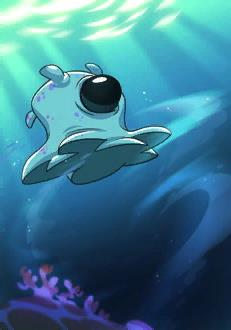
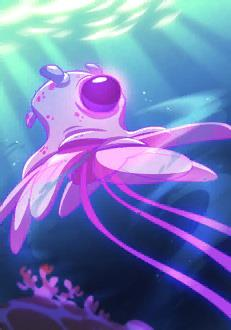
- Fixed Adorabubble art - Fixed default BGEs

diff --git a/scripts/simulator_base.js b/scripts/simulator_base.js
@@ -23,10 +23,11 @@ var SIMULATOR = {};
             doEarlyActivationSkills(card);
             activation_skills(card);
         } else {
-            // Activate trap battlegrounds
+            // Activate trap/onPlay battlegrounds
             for (var i = 0; i < battlegrounds.onCardPlayed.length; i++) {
                 var battleground = battlegrounds.onCardPlayed[i];
                 if (battleground.enemy_only && p != 'cpu') continue;
+                if (battleground.self_only && p != 'player') continue;
                 battleground.owner = p;
                 var o = (p === 'player' ? 'cpu' : 'player');
                 battleground.onCardPlayed(card, deck[p].deck, deck[o].deck);
@@ -126,7 +127,7 @@ var SIMULATOR = {};
         for (var unit_key = 0, unit_len = field_p_assaults.length; unit_key < unit_len; unit_key++) {
             var current_unit = field_p_assaults[unit_key];
 
-            if (current_unit.isActive() && current_unit.isUnjammed()) {
+            if (current_unit.isAlive() && current_unit.isActive() && current_unit.isUnjammed()) {
 
                 // Check for Dualstrike
                 var dualstrike = current_unit.flurry;
@@ -1149,6 +1150,33 @@ var SIMULATOR = {};
         },
     };
 
+    var onPlaySkills = {
+
+        ambush: function (src_card, target, skill) {
+
+            var x = skill.x
+            var faction = skill.y;
+            var all = skill.all;
+            var base = skill.base;
+            var mult = skill.mult;
+
+            var damage = x;
+            if (!damage) {
+                var mult = skill.mult;
+                damage = Math.ceil(target[base] * mult);
+            }
+
+            do_damage(target, damage);
+
+            if (debug) {
+                echo += debug_name(src_card) + ' ambushes ' + debug_name(target) + ' for ' + damage + ' damage';
+                echo += (!target.isAlive() ? ' and it dies' : '') + '<br>';
+            }
+
+            return 1;
+        },
+    };
+
     // Activation Skills
     // - Must traverse through skills from top to bottom
     function activation_skills(src_card) {
@@ -1717,6 +1745,10 @@ var SIMULATOR = {};
 
             var current_assault = field_p_assaults[key];
 
+            if (!current_assault.isAlive()) {
+                continue;
+            }
+
             // Check Timer
             if (!current_assault.isActive()) {
                 continue;
@@ -2256,6 +2288,7 @@ var SIMULATOR = {};
 
     // public functions
     SIMULATOR.simulate = simulate;
+    SIMULATOR.onPlaySkills = onPlaySkills;
     // public variables
     Object.defineProperties(SIMULATOR, {
         setupDecks: {

diff --git a/scripts/shared.js b/scripts/shared.js
@@ -843,6 +843,38 @@ var MakeSkillModifier = (function () {
     })
 }());
 
+var MakeOnPlayBGE = (function () {
+    var OnPlayBGE = function (name, effect) {
+        this.p = null;
+        this.name = name;
+        this.effect = effect;
+        this.runes = [];
+    }
+
+    OnPlayBGE.prototype = {
+        onCardPlayed: function (card) {
+            SIMULATOR.onPlaySkills[this.effect.id](this, card, this.effect);
+        },
+
+        //Card ID is ...
+        isCommander: function () {
+            return false;
+        },
+
+        isAssault: function () {
+            return false;
+        },
+
+        isBattleground: function () {
+            return true;
+        },
+    };
+
+    return (function (name, effects) {
+        return new OnPlayBGE(name, effects);
+    })
+}());
+
 var MakeTrap = (function () {
     var Trap = function (name, trap_card) {
         this.name = name;
@@ -958,6 +990,11 @@ function addBgesFromList(battlegrounds, getbattleground, player) {
                 battlegrounds.onCreate.push(bge);
             } else if (effect_type === "trap_card") {
                 var bge = MakeTrap(battleground.name, effect);
+                if (player === 'player') bge.self_only = true
+                if (player === 'cpu') bge.enemy_only = true
+                battlegrounds.onCardPlayed.push(bge);
+            } else if (effect_type === "on_play") {
+                var bge = MakeOnPlayBGE(battleground.name, effect);
                 if (player === 'player') bge.self_only = true
                 if (player === 'cpu') bge.enemy_only = true
                 battlegrounds.onCardPlayed.push(bge);

diff --git a/scripts/common.js b/scripts/common.js
@@ -1,3 +1,3 @@
 var text_version = 'v2.0';
 var battle_sim = false;
-var current_bges = ["101", "108"];
+var current_bges = ["108", "113"];
